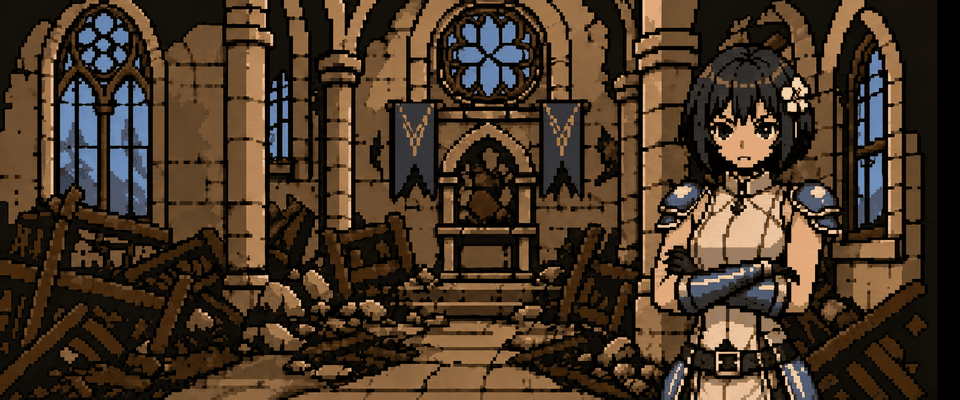
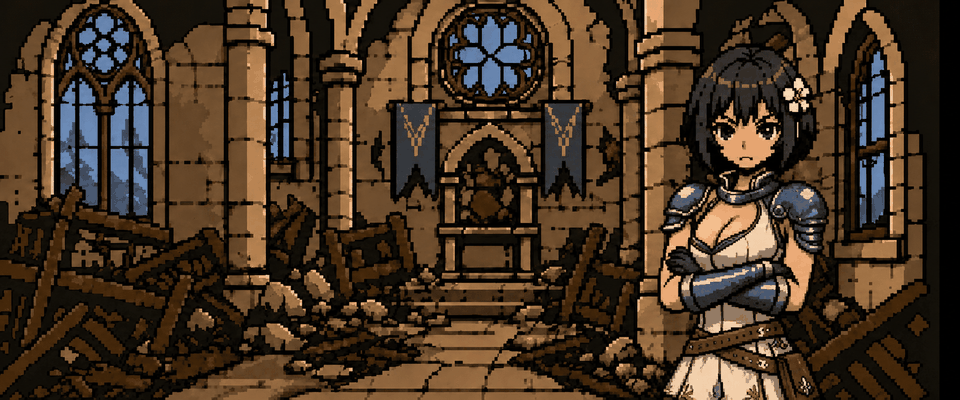
ver. 1.1.3
Claude-Session: https://claude.ai/code/session_01J8mamwxEfGRUR5mo5BybqR

diff --git a/index.html b/index.html
@@ -17,7 +17,7 @@
     <meta property="og:image:height" content="630">
     <meta property="og:locale" content="ja_JP">
     <meta name="twitter:card" content="summary_large_image">
-    <link rel="stylesheet" href="css/style.min.css?v=1012"> <!-- 配信用の軽量版。編集はcss/style.cssで行い、tools/build.shで作り直す(2026-10-02) -->
+    <link rel="stylesheet" href="css/style.min.css?v=1013"> <!-- 配信用の軽量版。編集はcss/style.cssで行い、tools/build.shで作り直す(2026-10-02) -->
 
     <!-- 技名ポップ用の8bit風フォント(Press Start 2P、SIL OFL。2026-10-03に手書き風Permanent Markerから変更)。
          ゲームに同梱し(assets/fonts/)、ネット環境に左右されず表示する。canvasで使うため先読みしておく -->
@@ -144,7 +144,7 @@
     <button id="optionBtn" class="text-btn" onclick="openOption()" disabled>OPTION</button>
     <button class="howto-btn howto-corner" onclick="openHowTo()">HOW<br>TO</button>
     <div class="title-copyright">©BORN MAGAZINE 2026</div>
-    <div class="title-version">ver. 1.1.2</div> <!-- 2026-10-03: ロゴ直下から、画面下の中央(©表記と同じ高さ)へ移動 -->
+    <div class="title-version">ver. 1.1.3</div> <!-- 2026-10-03: ロゴ直下から、画面下の中央(©表記と同じ高さ)へ移動 -->
 </div>
 
 <!-- デッキ編成シーン: 21枚固定・内訳自由 -->
@@ -918,7 +918,7 @@
 (function() {
     // 配信用の軽量版(コメント・空白を除いたもの)。編集はjs/script.jsで行い、tools/build.shで作り直す(2026-10-02)。
     // ?v=はバージョン(.title-versionの末尾3桁)と同じ番号にし、更新のたびに上げる(古いものがキャッシュに残らないように)
-    var SCRIPT_URL = 'js/script.min.js?v=1012';
+    var SCRIPT_URL = 'js/script.min.js?v=1013';
     var bar = document.getElementById('nowLoadingBar');
     var percentEl = document.getElementById('nowLoadingPercent');
     var settled = false; // フォールバック(タイムアウト)と正常読み込みの、どちらか一方だけが実行されるようにするためのフラグ
